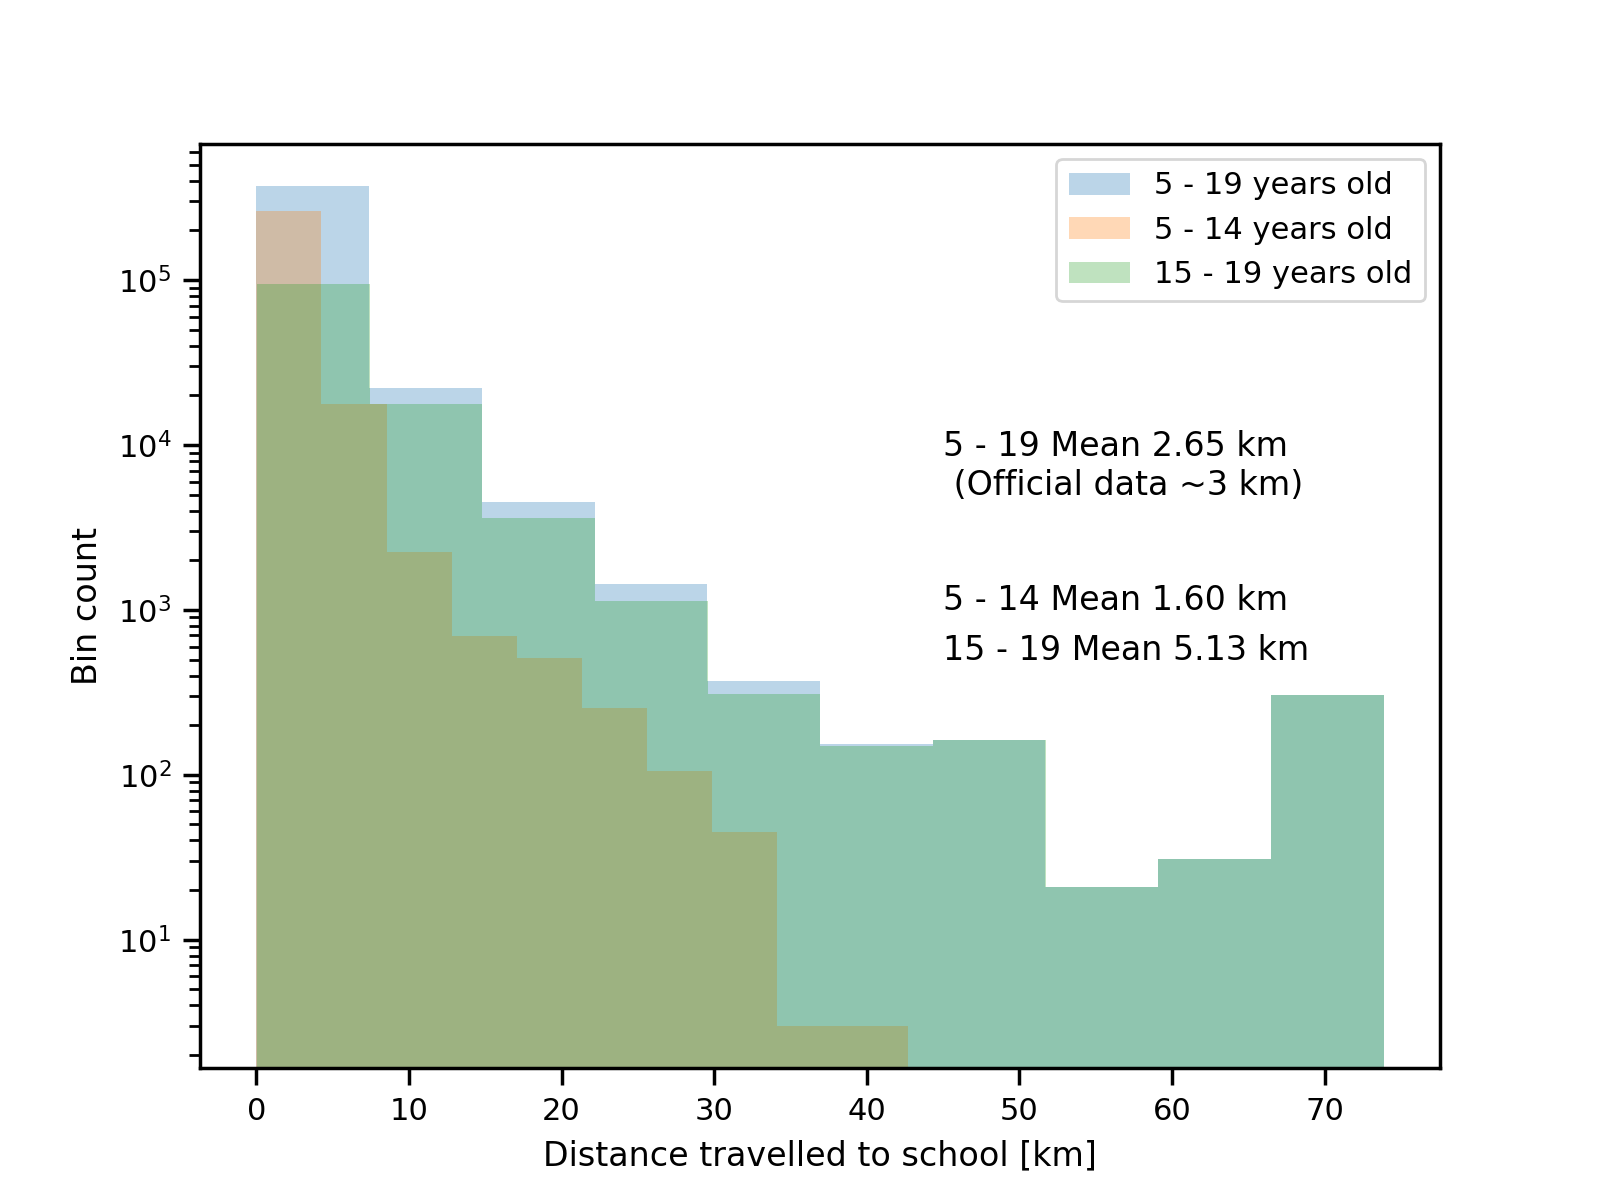
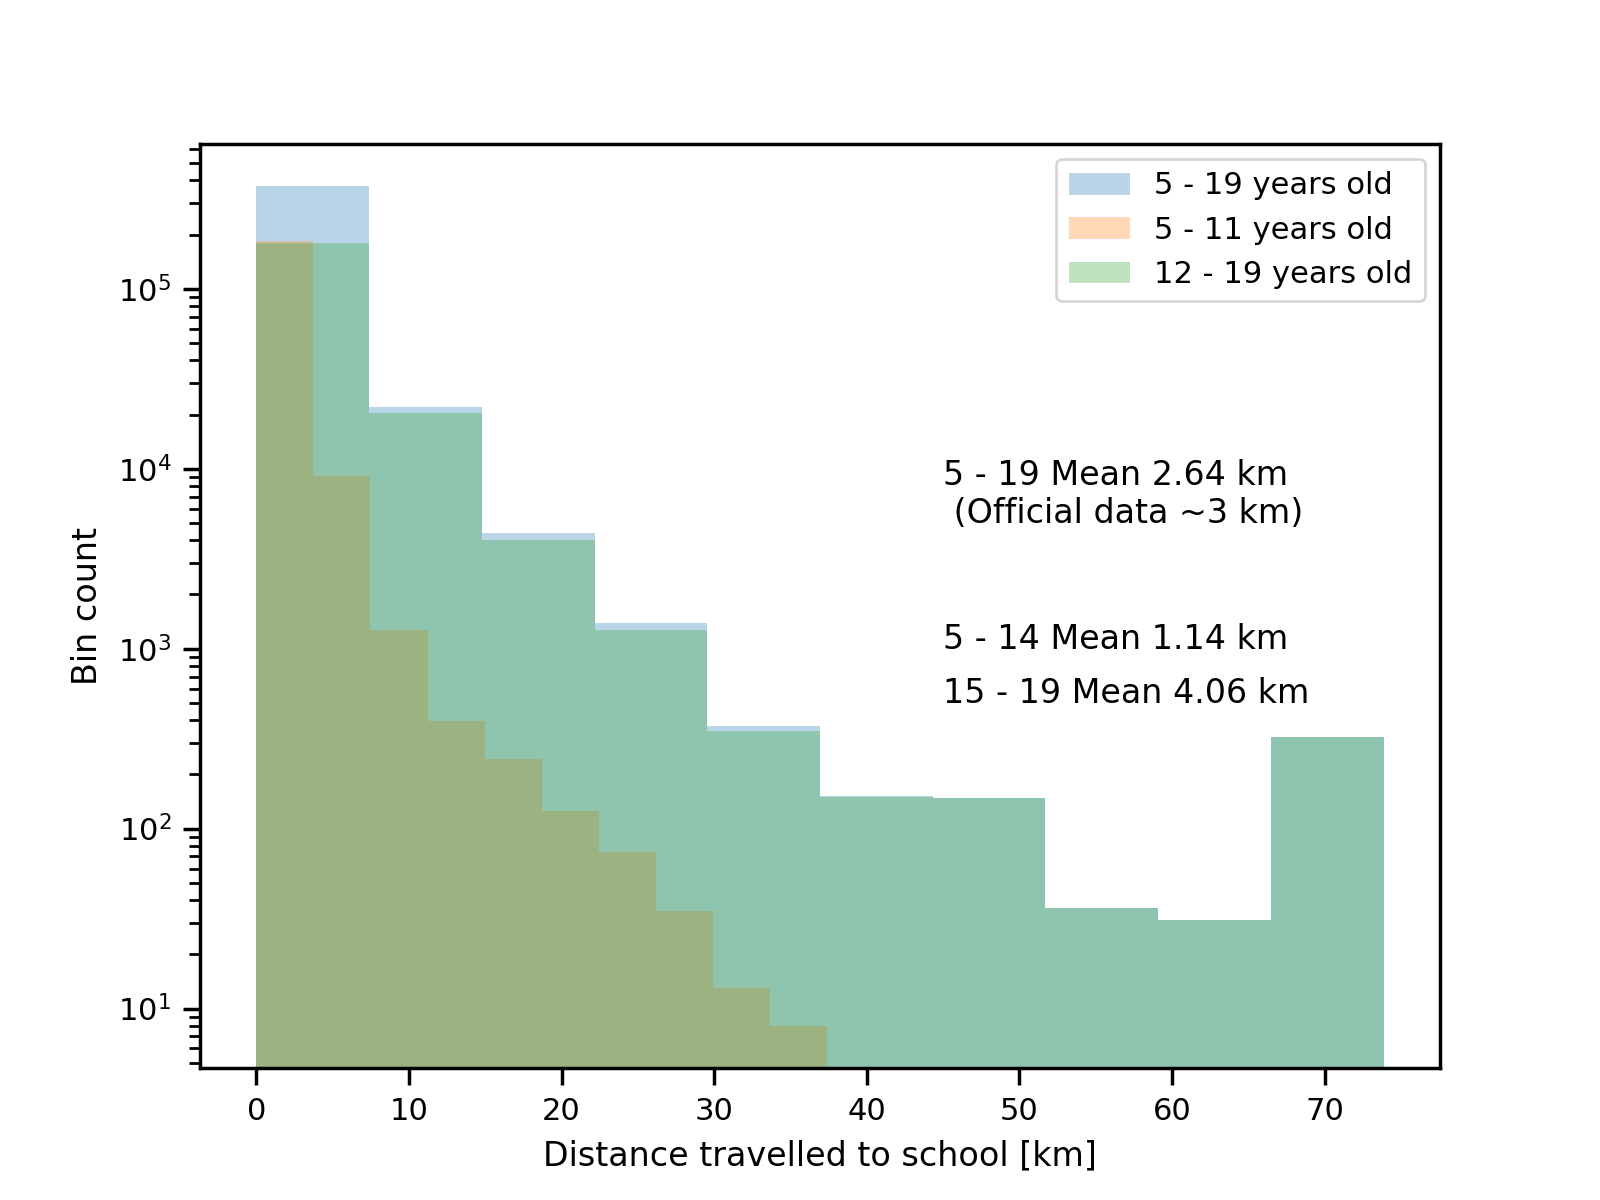
update on household tests

diff --git a/tests/test_distributor.py b/tests/test_distributor.py
@@ -1,95 +1,65 @@
 import numpy as np
 import os
-from covid.inputs import create_input_dict
+from covid.inputs import Inputs 
 from covid.world import World
-from covid.area import Area
-from covid.household import Household
-from covid.distributor import populate_world
-from covid.person import Person
 
 
 def test_global():
 
-    census_dict = create_input_dict()
-    for key, value in census_dict.items():
-        print("world -->", key)
-        census_dict[key] = census_dict[key].sample(n=5, random_state=111)
-    census_dict_safe = census_dict.copy()
-    world = World(census_dict)
-    populate_world(world)
+    world = World.from_pickle()
+    inputs = Inputs()
 
-    n_residents_est = sum([world.areas[i].n_residents for i in range(len(world.areas))])
-    n_residents = census_dict_safe["n_residents"].sum()
+    n_residents_est = sum([world.areas.members[i].n_residents for i in range(len(world.areas.members))])
+    n_residents = inputs.n_residents.sum()
 
     assert n_residents == n_residents_est
 
-    n_residents_est = sum([len(world.areas[i].people) for i in range(len(world.areas))])
+    n_residents_est = sum([len(world.areas.members[i].people) for i in range(len(world.areas.members))])
 
     assert n_residents == n_residents_est
 
-    n_households_est = sum(
-        [world.areas[i].n_households for i in range(len(world.areas))]
-    )
-    n_households = census_dict_safe["n_households"].sum()
-
-    assert n_households == n_households_est
-
-    # n_households_est = sum(
-    #    [len(world.areas[i].households) for i in range(len(world.areas))]
-    # )
-    # assert n_households == n_households_est
 
 
 def test_per_area():
 
-    census_dict = create_input_dict()
-    for key, value in census_dict.items():
-        census_dict[key] = census_dict[key].sample(n=5, random_state=111)
-    census_dict_safe = census_dict.copy()
+    world = World.from_pickle()
+    inputs = Inputs()
 
-    world = World(census_dict)
-    populate_world(world)
 
-    n_residents_est = [world.areas[i].n_residents for i in range(len(world.areas))]
+    n_residents_est = [world.areas.members[i].n_residents for i in range(len(world.areas.members))]
 
-    np.testing.assert_equal(n_residents_est, census_dict_safe["n_residents"].values)
-
-    n_households_est = [world.areas[i].n_households for i in range(len(world.areas))]
-
-    np.testing.assert_equal(n_households_est, census_dict_safe["n_households"].values)
+    np.testing.assert_equal(n_residents_est, inputs.n_residents.values)
 
 
 def compute_n_samples(world, attribute):
     print(attribute)
     frequencies = []
-    decoder = getattr(world, "decoder_" + attribute)
-    for i in world.areas.keys():
+    decoder = getattr(world.inputs, "decoder_" + attribute)
+    for i in range(len(world.areas.members):
         freq = np.zeros(len(decoder))
         if "house" not in attribute:
-            for j in world.areas[i].people.keys():
-                freq[getattr(world.areas[i].people[j], attribute)] += 1
+            for j in range(len(world.areas.members[i].people)):
+                if attribute == 'age':
+                    attribute = 'nomis_bin'
+                freq[getattr(world.areas.members[i].people[j], attribute)] += 1
             # freq /= world.areas[i].n_residents
         else:
-            for j in world.areas[i].households.keys():
-                print(getattr(world.areas[i].households[j], attribute))
-                freq[getattr(world.areas[i].households[j], attribute)] += 1
+            for j in range(len(world.areas.members[i].households)):
+                print(getattr(world.areas.members[i].households[j], attribute))
+                freq[getattr(world.areas.members[i].households[j], attribute)] += 1
             # freq /= world.areas[i].n_households
 
         frequencies.append(freq)
     frequencies = np.asarray(frequencies)
-    assert frequencies.shape == (len(world.areas), len(decoder))
+    assert frequencies.shape == (len(world.areas.members), len(decoder))
     return frequencies
 
 
 def test_frequencies():
 
-    census_dict = create_input_dict()
-    for key, value in census_dict.items():
-        census_dict[key] = census_dict[key].sample(n=50, random_state=111)
-    census_dict_safe = census_dict.copy()
+    world = World.from_pickle()
+    inputs = Inputs()
 
-    world = World(census_dict)
-    populate_world(world)
 
     for key, value in census_dict_safe.items():
         if "freq" in key:
@@ -113,29 +83,6 @@ def test_frequencies():
                 np.testing.assert_allclose(
                     n_samples_total[i], n_samples_est[i], atol=atol_matrix[i]
                 )
-
-
-def test_lonely_children():
-    census_dict = create_input_dict()
-    for key, value in census_dict.items():
-        census_dict[key] = census_dict[key].sample(n=5, random_state=111)
-    census_dict_safe = census_dict.copy()
-
-    world = World(census_dict)
-    populate_world(world)
-    attribute = "age"
-    decoder = getattr(world, "decoder_" + attribute)
-    only_children = 0
-    for i in world.areas.keys():
-        for j in world.areas[i].households.keys():
-            freq = np.zeros(len(decoder))
-            for k in world.areas[i].households[j].residents.keys():
-                freq[getattr(world.areas[i].households[j].residents[k], attribute)] += 1
-                # if no adults, but at least one child
-                if (np.sum(freq[5:]) == 0.0) & (np.sum(freq[:5]) > 0.0):
-                    only_children += 1
-
-    assert only_children == 0
 
 
 if __name__ == "__main__":

diff --git a/plot_tests/school_distance.py b/plot_tests/school_distance.py
@@ -26,19 +26,20 @@ def distance(origin, destination):
     return d # km
 
 
-def kids_school_distance(world, KIDS_LOW=1, KIDS_UP=6):
+def kids_school_distance(world, KIDS_LOW=5, KIDS_UP=19):
 
     distance_school = []
     lost_kids = 0 
     for i in range(len(world.areas.members)):
-        for j in range(len(world.areas.members[i].people):
+        for j in range(len(world.areas.members[i].people)):
             if (world.areas.members[i].people[j].age >= KIDS_LOW) and (world.areas.members[i].people[j].age <= KIDS_UP):
+
                 try:
                     school_coordinates = world.areas.members[i].people[j].school.coordinates
                     distance_school.append(
-                                    distance(world.areas.members[i].coordinates,
-                                        school_coordinates)
-                                    )
+                                distance(world.areas.members[i].coordinates,
+                                    school_coordinates)
+                                )
                 except:
                     lost_kids += 1
     print(f'CAREFUL! There are {lost_kids} lost kids')
@@ -49,8 +50,8 @@ if __name__=='__main__':
     world = World.from_pickle()
 
     distance_school = kids_school_distance(world)
-    distance_young = kids_school_distance(world, 1, 3)
-    distance_old = kids_school_distance(world, 4, 6)
+    distance_young = kids_school_distance(world, 5, 11) 
+    distance_old = kids_school_distance(world, 12, 19)
 
     fig = plt.figure()
     plt.hist(
@@ -62,13 +63,13 @@ if __name__=='__main__':
     plt.hist(
             distance_young, 
             log=True,
-            label = '5 - 14 years old',
+            label = '5 - 11 years old',
             alpha=0.3,
             )
     plt.hist(
             distance_old, 
             log=True,
-            label = '15 - 19 years old',
+            label = '12 - 19 years old',
             alpha=0.3,
             )
     plt.legend()

diff --git a/tests/test_schools.py b/tests/test_schools.py
@@ -17,8 +17,8 @@ def test_number_schools():
 def test_all_kids_school():
     
     world = World.from_pickle()
-    KIDS_LOW = 1
-    KIDS_UP = 5
+    KIDS_LOW = 5
+    KIDS_UP = 17 
     lost_kids = 0
     for i in range(len(world.areas.members)):
         for j in range(len(world.areas.members[i].people)):
